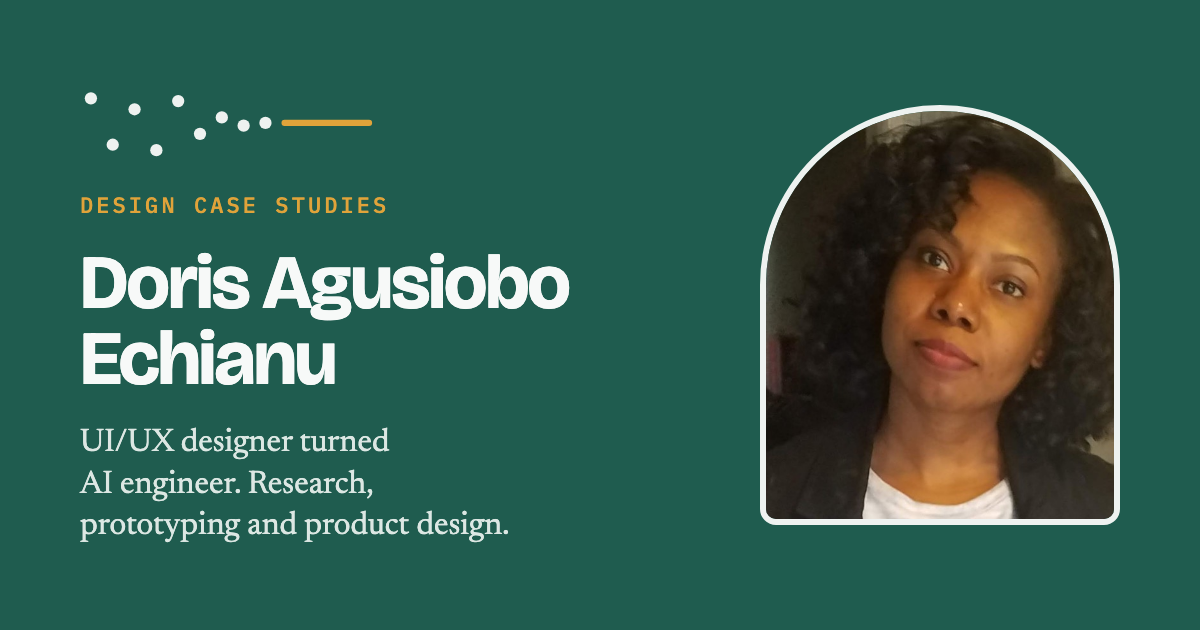
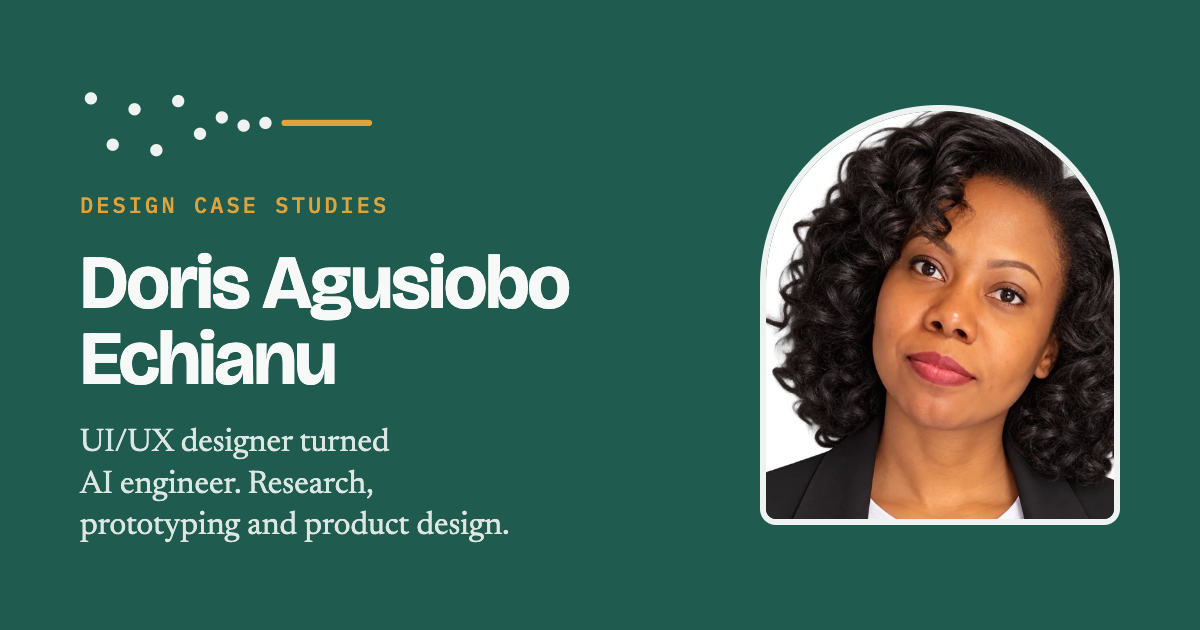
Balance the hero with a portrait (#17)
* Balance the hero: asymmetric split with portrait and live cards

The hero text sat on the left with the right half empty on wide
screens. It is now an asymmetric two-column hero (about 58/42): the
copy stays on the left, and the right shows the portrait in the brand
arch with two cards linking to CareBridge and the Digital Twin. On
phones they stack under the text. The portrait moves up from About,
using a higher-resolution copy of the approved headshot.

* Use the new professional headshot in the hero

* Use the new headshot for the chat avatar and the design preview card

* Remove the cards from the hero portrait

---------

Changed region(s): [[0.6167, 0.1508, 0.9558, 0.8444]]

diff --git a/app/page.js b/app/page.js
@@ -2,7 +2,7 @@ import Image from "next/image";
 import Link from "next/link";
 
 import Mark from "./components/mark";
-import portrait from "@/public/doris-agusiobo-echianu.png";
+import portrait from "@/public/doris-agusiobo-echianu-hero.jpg";
 import TwinChat from "./components/twin-chat";
 import {
   credentials,
@@ -74,23 +74,36 @@ export default function Home() {
 
       <main id="main">
         <section className="hero wrap" id="top" aria-labelledby="hero-title">
-          <Mark className="hero-mark" animated title="Scattered dots settling into a straight line" />
-          <p className="eyebrow">
-            {person.role} · {person.location}
-          </p>
-          <h1 id="hero-title">
-            Complexity, <span>made clear.</span>
-          </h1>
-          <p className="hero-thesis">
-            I’m {person.firstName}. {person.thesis}
-          </p>
-          <div className="hero-actions">
-            <a href="#work" className="button button-primary">
-              See my work
-            </a>
-            <a href="#twin" className="button button-secondary">
-              Ask my Digital Twin
-            </a>
+          <div className="hero-copy">
+            <Mark className="hero-mark" animated title="Scattered dots settling into a straight line" />
+            <p className="eyebrow">
+              {person.role} · {person.location}
+            </p>
+            <h1 id="hero-title">
+              Complexity, <span>made clear.</span>
+            </h1>
+            <p className="hero-thesis">
+              I’m {person.firstName}. {person.thesis}
+            </p>
+            <div className="hero-actions">
+              <a href="#work" className="button button-primary">
+                See my work
+              </a>
+              <a href="#twin" className="button button-secondary">
+                Ask my Digital Twin
+              </a>
+            </div>
+          </div>
+
+          <div className="hero-visual">
+            <Image
+              src={portrait}
+              alt={`Portrait of ${person.name}`}
+              className="hero-portrait"
+              sizes="(max-width: 999px) 260px, 400px"
+              placeholder="blur"
+              priority
+            />
           </div>
         </section>
 
@@ -209,13 +222,6 @@ export default function Home() {
             <div className="section-head about-head">
               <p className="eyebrow">About</p>
               <h2 id="about-title">A designer who learned to engineer AI</h2>
-              <Image
-                src={portrait}
-                alt={`Portrait of ${person.name}`}
-                className="portrait"
-                sizes="(max-width: 820px) 180px, 220px"
-                placeholder="blur"
-              />
             </div>
             <div className="about-story">
               {story.map((paragraph) => (

diff --git a/app/globals.css b/app/globals.css
@@ -327,8 +327,56 @@ a {
 /* ---------- Hero ---------- */
 .hero {
   display: grid;
-  gap: 22px;
+  gap: 48px;
+  align-items: center;
   padding-block: clamp(56px, 10vw, 112px) clamp(48px, 7vw, 80px);
+}
+.hero-copy {
+  display: grid;
+  gap: 22px;
+  min-width: 0;
+}
+/* Asymmetric split on wide screens: copy takes about 58%, the portrait and
+   live cards fill the rest, so the hero is balanced instead of one-sided. */
+@media (min-width: 1000px) {
+  .hero {
+    grid-template-columns: minmax(0, 1.4fr) minmax(0, 1fr);
+    gap: clamp(40px, 5vw, 72px);
+  }
+}
+
+.hero-visual {
+  position: relative;
+  justify-self: center;
+  width: min(400px, 100%);
+}
+.hero-portrait {
+  display: block;
+  width: 100%;
+  height: auto;
+  aspect-ratio: 4 / 5;
+  object-fit: cover;
+  object-position: 50% 35%;
+  border-radius: 999px 999px 24px 24px;
+  border: 6px solid var(--surface);
+  box-shadow:
+    0 0 0 1px var(--line),
+    0 30px 60px -36px color-mix(in srgb, var(--accent) 55%, transparent);
+  background: var(--surface-soft);
+}
+@media (max-width: 999px) {
+  .hero-visual {
+    width: min(300px, 100%);
+    justify-self: start;
+  }
+}
+@media (max-width: 480px) {
+  .hero-visual {
+    width: 100%;
+  }
+  .hero-portrait {
+    width: 220px;
+  }
 }
 .hero-mark {
   width: min(300px, 70vw);
@@ -578,19 +626,6 @@ a {
 }
 .about-head {
   gap: 20px;
-}
-.portrait {
-  width: 220px;
-  height: auto;
-  border-radius: 50% 50% var(--radius) var(--radius);
-  background: var(--surface);
-  border: 4px solid var(--surface);
-  box-shadow: 0 0 0 1px var(--line);
-}
-@media (max-width: 820px) {
-  .portrait {
-    width: 180px;
-  }
 }
 .mission {
   font-family: var(--font-display-stack);

diff --git a/app/components/twin-chat.js b/app/components/twin-chat.js
@@ -3,7 +3,7 @@
 import Image from "next/image";
 import { useEffect, useRef, useState } from "react";
 
-import portrait from "@/public/doris-agusiobo-echianu.png";
+import portrait from "@/public/doris-agusiobo-echianu-avatar.jpg";
 
 const SUGGESTIONS = [
   "What does Doris work on?",
